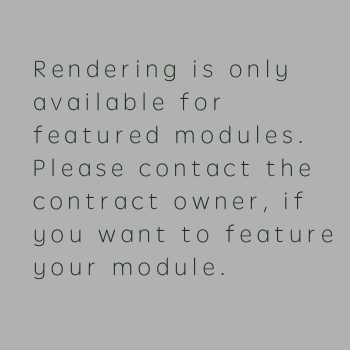
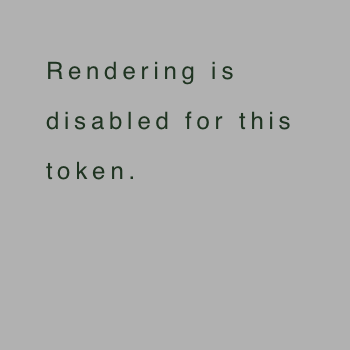
metadata for all tokens, whitelisted rendering

diff --git a/server/tokensRouter.js b/server/tokensRouter.js
@@ -7,6 +7,7 @@ const express = require("express");
 const { getContract } = require("./web3");
 const { useWrapCache } = require("./cache");
 const { featuredStorage } = require("./featuredStorage");
+const { whitelistedStorage } = require("./whitelistedStorage");
 
 const { hexToAscii } = web3.utils;
 
@@ -45,6 +46,20 @@ const MAX_PUPPETEER_INSTANCES = JSON.parse(
   10
 );
 
+const getModuleNameFromTokenId = async (req) => {
+  try {
+    const { module } = await req.contract.methods.getInvocation(req.id).call();
+
+    return hexToAsciiWithTrim(module.name);
+  } catch {
+    const moduleName = await req.contract.methods
+      .getModuleNameByTokenId(req.id)
+      .call();
+
+    return hexToAsciiWithTrim(moduleName);
+  }
+};
+
 useWrapCache(
   tokensRouter,
   "png",
@@ -58,12 +73,11 @@ useWrapCache(
     puppeteerInstancesCount += 1;
 
     try {
-      const { module } = await req.contract.methods
-        .getInvocation(req.id)
-        .call();
+      const moduleName = await getModuleNameFromTokenId(req);
 
       if (
-        !featuredStorage.has(req.networkId, hexToAsciiWithTrim(module.name))
+        !featuredStorage.has(req.networkId, moduleName) &&
+        !whitelistedStorage.has(req.networkId, moduleName)
       ) {
         req.content = await fsPromises.readFile(
           path.resolve(`${__dirname}/../images/non-featured.png`)
@@ -113,28 +127,88 @@ const hexToAsciiWithTrim = (hex) => {
   return hexToAscii(hex).replace(/(\0)+$/, "");
 };
 
+const getTokenMetadataTryInvocation = async (req) => {
+  try {
+    const invocation = await req.contract.methods.getInvocation(req.id).call();
+
+    return {
+      name: `${hexToAsciiWithTrim(invocation.module.name)}@${
+        invocation.tokenId
+      }`,
+      description: JSON.parse(invocation.module.metadataJSON).description,
+      image: `${process.env.WEB_URL_ROOT}/network/${req.networkId}/tokens/${req.id}/image`,
+      external_url: `${process.env.WEB_URL_ROOT}/modules/invocation/${req.id}`,
+      animation_url: `${process.env.WEB_URL_ROOT}/network/${req.networkId}/tokens/${req.id}/render`,
+      attributes: [
+        {
+          trait_type: "type",
+          value: "minted token",
+        },
+      ],
+    };
+  } catch {
+    return false;
+  }
+};
+
+const getTokenMetadataTryModule = async (req) => {
+  try {
+    const moduleName = await req.contract.methods
+      .getModuleNameByTokenId(req.id)
+      .call();
+
+    const module = await req.contract.methods
+      .getModule(moduleName, true)
+      .call();
+
+    const readableName = hexToAsciiWithTrim(module.name);
+
+    return {
+      name: readableName,
+      description: JSON.parse(module.metadataJSON).description,
+      image: `${process.env.WEB_URL_ROOT}/network/${req.networkId}/tokens/${req.id}/image`,
+      external_url: `${process.env.WEB_URL_ROOT}/modules/details/${readableName}`,
+      animation_url: `${process.env.WEB_URL_ROOT}/network/${req.networkId}/tokens/${req.id}/render`,
+      attributes: [
+        {
+          trait_type: "type",
+          value: "lambda",
+        },
+      ],
+    };
+  } catch {
+    return false;
+  }
+};
+
+const getTokenMetadata = async (req) => {
+  let res;
+
+  res = await getTokenMetadataTryInvocation(req);
+
+  if (res !== false) {
+    return res;
+  }
+
+  res = await getTokenMetadataTryModule(req);
+
+  if (res !== false) {
+    return res;
+  }
+
+  throw new Error("Token does not exist");
+};
+
 useWrapCache(
   tokensRouter,
   "json",
   "/network/:networkId/tokens/:id",
   async (req, res, next) => {
     try {
-      const invocation = await req.contract.methods
-        .getInvocation(req.id)
-        .call();
-
-      req.content = {
-        name: `${hexToAsciiWithTrim(invocation.module.name)}@${
-          invocation.tokenId
-        }`,
-        description: JSON.parse(invocation.module.metadataJSON).description,
-        image: `${process.env.WEB_URL_ROOT}/network/${req.networkId}/tokens/${req.id}/image`,
-        external_url: `${process.env.WEB_URL_ROOT}/modules/invocation/${req.id}`,
-        animation_url: `${process.env.WEB_URL_ROOT}/network/${req.networkId}/tokens/${req.id}/render`,
-      };
+      req.content = await getTokenMetadata(req);
       next();
-    } catch {
-      res.status(404).send("Token does not exist");
+    } catch (e) {
+      res.status(404).send(e.message);
     }
   }
 );

diff --git a/server/whitelistedStorage.js b/server/whitelistedStorage.js
@@ -7,13 +7,13 @@ try {
   fs.mkdirSync(storageDirName);
 } catch {}
 
-const getFeaturedFileName = (networkId, moduleName) =>
+const getWhitelistedFileName = (networkId, moduleName) =>
   path.resolve(
-    `${storageDirName}/featured-${networkId.toString()}-${moduleName}`
+    `${storageDirName}/whitelisted-${networkId.toString()}-${moduleName}`
   );
 
-const extractFeaturedModuleName = (fileName) => {
-  const match = fileName.match(/^featured-(.*?)-(.*?)$/);
+const extractWhitelistedModuleName = (fileName) => {
+  const match = fileName.match(/^whitelisted-(.*?)-(.*?)$/);
 
   if (!match) {
     return;
@@ -48,40 +48,40 @@ const removeFromCache = (cache, networkId, moduleNameRemove) => {
 };
 
 const init = () => {
-  const featured = fs
+  const whitelisted = fs
     .readdirSync(storageDirName)
-    .map((fileName) => extractFeaturedModuleName(fileName))
+    .map((fileName) => extractWhitelistedModuleName(fileName))
     .filter((val) => val !== undefined)
     .filter(([, moduleName]) => moduleName !== undefined)
     .reduce(
       (res, [networkId, moduleName]) => addToCache(res, networkId, moduleName),
       new Map()
     );
-  return featured;
+  return whitelisted;
 };
 
-let cacheFeatured = init();
+let cacheWhitelisted = init();
 
-const featuredStorage = {
+const whitelistedStorage = {
   getAll(networkId) {
-    return cacheFeatured.get(networkId) || [];
+    return cacheWhitelisted.get(networkId) || [];
   },
   add(networkId, moduleName) {
-    fs.writeFileSync(getFeaturedFileName(networkId, moduleName), "");
-    addToCache(cacheFeatured, networkId, moduleName);
+    fs.writeFileSync(getWhitelistedFileName(networkId, moduleName), "");
+    addToCache(cacheWhitelisted, networkId, moduleName);
   },
   remove(networkId, moduleNameRemove) {
-    fs.unlinkSync(getFeaturedFileName(networkId, moduleNameRemove));
-    removeFromCache(cacheFeatured, networkId, moduleNameRemove);
+    fs.unlinkSync(getWhitelistedFileName(networkId, moduleNameRemove));
+    removeFromCache(cacheWhitelisted, networkId, moduleNameRemove);
   },
   has(networkId, moduleNameCheck) {
     return (
-      cacheFeatured.has(networkId) &&
-      cacheFeatured
+      cacheWhitelisted.has(networkId) &&
+      cacheWhitelisted
         .get(networkId)
         .some((moduleName) => moduleName === moduleNameCheck)
     );
   },
 };
 
-module.exports = { featuredStorage };
+module.exports = { whitelistedStorage };

diff --git a/client/components/WhitelistedControl.js b/client/components/WhitelistedControl.js
@@ -1,0 +1,70 @@
+import React, { useEffect, useState } from "react";
+import { useWeb3React } from "@web3-react/core";
+
+import { fetchServerMethod } from "../utils/fetchServerMethod";
+import { useNetwork } from "../utils/networks";
+
+export const WhitelistedControl = ({ moduleName }) => {
+  const { account, library } = useWeb3React();
+
+  const [isWhitelisted, setIsWhitelisted] = useState(false);
+
+  const { networkId } = useNetwork();
+
+  const retreive = async () => {
+    try {
+      await fetchServerMethod(
+        `/protected/network/${networkId}/whitelisted/${moduleName}`,
+        "GET"
+      );
+      setIsWhitelisted(true);
+    } catch (e) {
+      setIsWhitelisted(false);
+    }
+  };
+
+  useEffect(() => {
+    if (moduleName === "") {
+      return;
+    }
+
+    retreive();
+  }, [moduleName]);
+
+  const updateWhitelisted = async () => {
+    const { nonce } = await fetchServerMethod("/protected/nonce", "GET");
+
+    const signature = await library.currentProvider.request({
+      method: "personal_sign",
+      params: [JSON.stringify({ nonce }), account],
+      from: account,
+    });
+
+    if (isWhitelisted) {
+      await fetchServerMethod(
+        `/protected/network/${networkId}/whitelisted/${moduleName}`,
+        "DELETE",
+        {
+          signature,
+        }
+      );
+      setIsWhitelisted(false);
+    } else {
+      await fetchServerMethod(
+        `/protected/network/${networkId}/whitelisted`,
+        "POST",
+        {
+          signature,
+          moduleName,
+        }
+      );
+      setIsWhitelisted(true);
+    }
+  };
+
+  return (
+    <div className="btn btn-outline-primary btn-sm" onClick={updateWhitelisted}>
+      {isWhitelisted ? "Remove Whitelisted" : "Make Whitelisted"}
+    </div>
+  );
+};

diff --git a/server/protectedRouter.js b/server/protectedRouter.js
@@ -4,6 +4,7 @@ const express = require("express");
 const { recoverPersonalSignature } = require("eth-sig-util");
 
 const { featuredStorage } = require("./featuredStorage");
+const { whitelistedStorage } = require("./whitelistedStorage");
 
 const { asciiToHex } = web3.utils;
 
@@ -96,6 +97,49 @@ protectedRouter.delete(
     let { moduleName } = req.params;
 
     featuredStorage.remove(req.networkId, moduleName);
+    res.send({ status: "OK" });
+  }
+);
+
+protectedRouter.get("/network/:networkId/whitelisted", (req, res) => {
+  res.send(whitelistedStorage.getAll(req.networkId));
+});
+
+protectedRouter.post("/network/:networkId/whitelisted", (req, res) => {
+  const { moduleName } = req.body;
+
+  if (!moduleName) {
+    res.status(400).send({ error: "Wrong input" });
+    return;
+  }
+
+  whitelistedStorage.add(req.networkId, moduleName);
+  res.send({ status: "OK" });
+});
+
+protectedRouter.get(
+  "/network/:networkId/whitelisted/:moduleName",
+  (req, res) => {
+    let { moduleName } = req.params;
+
+    if (whitelistedStorage.has(req.networkId, moduleName)) {
+      res.send({ status: "OK" });
+      return;
+    } else {
+      res
+        .status(404)
+        .send({ error: `Module "${moduleName}" was not whitelisted` });
+      return;
+    }
+  }
+);
+
+protectedRouter.delete(
+  "/network/:networkId/whitelisted/:moduleName",
+  (req, res) => {
+    let { moduleName } = req.params;
+
+    whitelistedStorage.remove(req.networkId, moduleName);
     res.send({ status: "OK" });
   }
 );

diff --git a/client/views/ModuleDetailsView.js b/client/views/ModuleDetailsView.js
@@ -22,6 +22,7 @@ import { ModuleBadges, hasBadges } from "../components/ModuleBadges";
 import { PreviewIFrame } from "../components/PreviewIFrame";
 import { usePagination } from "../components/usePagination";
 import { FeaturedControl } from "../components/FeaturedControl";
+import { WhitelistedControl } from "../components/WhitelistedControl";
 import { ReadOnlyWarning } from "../components/ReadOnlyWarning";
 import { Modal } from "../components/Modal";
 
@@ -162,6 +163,12 @@ const ModuleDetails = withOwner((module) => {
       <OnlyContractOwner>
         <div className="mb-3">
           <FeaturedControl moduleName={name} />
+        </div>
+      </OnlyContractOwner>
+
+      <OnlyContractOwner>
+        <div className="mb-3">
+          <WhitelistedControl moduleName={name} />
         </div>
       </OnlyContractOwner>
 
